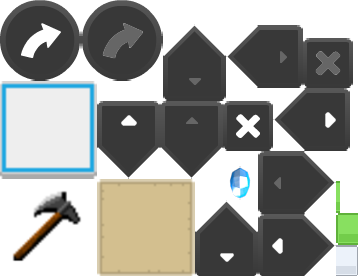
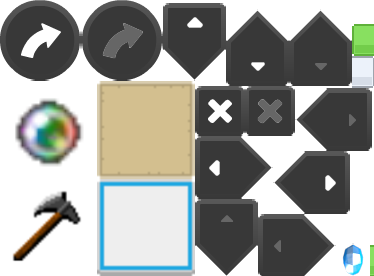
- fixed a bug with debug rendering (a useless Matrix4 was used instead of the gameCamera.combined matrix) - added new chromaorb item which illuminates the entire garden a little bit

diff --git a/core/src/com/quillraven/game/gamestate/GSGame.java b/core/src/com/quillraven/game/gamestate/GSGame.java
@@ -2,6 +2,7 @@ package com.quillraven.game.gamestate;
 
 import box2dLight.Light;
 import box2dLight.RayHandler;
+import com.badlogic.gdx.graphics.Color;
 import com.badlogic.gdx.graphics.OrthographicCamera;
 import com.badlogic.gdx.math.Vector2;
 import com.badlogic.gdx.physics.box2d.Box2D;
@@ -21,12 +22,12 @@ import com.quillraven.game.ecs.system.PlayerMovementSystem;
 import com.quillraven.game.map.MapManager;
 import com.quillraven.game.ui.GameUI;
 
-import static com.quillraven.game.MysticGarden.BIT_GROUND;
-import static com.quillraven.game.MysticGarden.BIT_PLAYER;
+import static com.quillraven.game.MysticGarden.*;
 
 public class GSGame extends GameState<GameUI> implements PlayerContactSystem.PlayerContactListener {
     private final ECSEngine ecsEngine;
     private final RayHandler rayHandler;
+    private final Color ambientLightColor;
     private final World world;
     private float elapsedTime;
 
@@ -46,9 +47,10 @@ public class GSGame extends GameState<GameUI> implements PlayerContactSystem.Pla
         world = new World(new Vector2(0, 0), true);
         world.setContactListener(WorldContactManager.INSTANCE);
         rayHandler = new RayHandler(world);
-        rayHandler.setAmbientLight(0, 0, 0, 0.05f);
-        // player light should only collide with ground objects. Water for example should not throw shadows
-        Light.setGlobalContactFilter(BIT_PLAYER, (short) 1, BIT_GROUND);
+        ambientLightColor = new Color(0, 0, 0, 0.05f);
+        rayHandler.setAmbientLight(ambientLightColor);
+        // player light should not collide with water because water should not throw shadows
+        Light.setGlobalContactFilter(BIT_PLAYER, (short) 1, (short) (BIT_GROUND | BIT_GAME_OBJECT));
 
         // entity component system
         this.ecsEngine = new ECSEngine(world, rayHandler, new OrthographicCamera());
@@ -144,14 +146,19 @@ public class GSGame extends GameState<GameUI> implements PlayerContactSystem.Pla
 
     @Override
     public void itemContact(final GameObjectComponent.GameObjectType type) {
-        switch (type) {
-            case AXE:
-                gameStateHUD.setAxe(true);
-                gameStateHUD.showInfoMessage(hud.getLocalizedString("axeInfo"), 7.0f);
-                break;
-            default:
-                // nothing to do
-                break;
+        if (type == GameObjectComponent.GameObjectType.AXE) {
+            gameStateHUD.setAxe(true);
+            gameStateHUD.showInfoMessage(hud.getLocalizedString("axeInfo"), 7.0f);
+        }
+    }
+
+    @Override
+    public void chromaOrbContact(final int chromaOrbsFound) {
+        ambientLightColor.a += 0.05f;
+        rayHandler.setAmbientLight(ambientLightColor);
+        gameStateHUD.setChromaOrb(chromaOrbsFound);
+        if (chromaOrbsFound == 1) {
+            gameStateHUD.showInfoMessage(hud.getLocalizedString("chromaOrbInfo"), 7.0f);
         }
     }
 }

diff --git a/core/src/com/quillraven/game/ecs/system/PlayerContactSystem.java b/core/src/com/quillraven/game/ecs/system/PlayerContactSystem.java
@@ -6,10 +6,10 @@ import com.badlogic.ashley.core.EntitySystem;
 import com.badlogic.gdx.utils.Array;
 import com.quillraven.game.WorldContactManager;
 import com.quillraven.game.core.AudioManager;
+import com.quillraven.game.core.ecs.component.RemoveComponent;
 import com.quillraven.game.ecs.ECSEngine;
 import com.quillraven.game.ecs.component.GameObjectComponent;
 import com.quillraven.game.ecs.component.PlayerComponent;
-import com.quillraven.game.core.ecs.component.RemoveComponent;
 
 public class PlayerContactSystem extends EntitySystem implements WorldContactManager.WorldContactListener {
     private final ComponentMapper<PlayerComponent> playerCmpMapper;
@@ -35,9 +35,16 @@ public class PlayerContactSystem extends EntitySystem implements WorldContactMan
             case CRYSTAL:
                 AudioManager.INSTANCE.playAudio(AudioManager.AudioType.CRYSTAL_PICKUP);
                 gameObject.add(((ECSEngine) this.getEngine()).createComponent(RemoveComponent.class));
-                ++playerCmp.crystals;
                 for (final PlayerContactListener listener : listeners) {
-                    listener.crystalContact(playerCmp.crystals);
+                    listener.crystalContact(++playerCmp.crystals);
+                }
+                break;
+            case CHROMA_ORB:
+                AudioManager.INSTANCE.playAudio(AudioManager.AudioType.JINGLE);
+                playerCmp.sleepTime = 1.5f;
+                gameObject.add(((ECSEngine) this.getEngine()).createComponent(RemoveComponent.class));
+                for (final PlayerContactListener listener : listeners) {
+                    listener.chromaOrbContact(++playerCmp.chromaOrbs);
                 }
                 break;
             case AXE:
@@ -65,5 +72,7 @@ public class PlayerContactSystem extends EntitySystem implements WorldContactMan
         void crystalContact(final int crystalsFound);
 
         void itemContact(final GameObjectComponent.GameObjectType type);
+
+        void chromaOrbContact(final int chromaOrbsFound);
     }
 }

diff --git a/core/src/com/quillraven/game/ui/GameUI.java b/core/src/com/quillraven/game/ui/GameUI.java
@@ -1,9 +1,6 @@
 package com.quillraven.game.ui;
 
-import com.badlogic.gdx.scenes.scene2d.ui.Image;
-import com.badlogic.gdx.scenes.scene2d.ui.Stack;
-import com.badlogic.gdx.scenes.scene2d.ui.Table;
-import com.badlogic.gdx.scenes.scene2d.ui.TextButton;
+import com.badlogic.gdx.scenes.scene2d.ui.*;
 import com.badlogic.gdx.utils.Align;
 import com.badlogic.gdx.utils.Array;
 import com.quillraven.game.core.ui.HUD;
@@ -87,9 +84,10 @@ public class GameUI extends Table {
     }
 
     public void setCrystals(final int crystalsFound) {
-        crystalText.getLabel().getText().setLength(0);
-        crystalText.getLabel().getText().append(crystalsFound);
-        crystalText.getLabel().invalidateHierarchy();
+        final Label crystalLbl = crystalText.getLabel();
+        crystalLbl.getText().setLength(0);
+        crystalLbl.getText().append(crystalsFound);
+        crystalLbl.invalidateHierarchy();
     }
 
     public void setAxe(final boolean hasAxe) {
@@ -105,5 +103,21 @@ public class GameUI extends Table {
         infoBox.setVisible(true);
         infoBox.setColor(1, 1, 1, 0);
         infoBox.addAction(sequence(alpha(1, 1), delay(displayTime), alpha(0, 1)));
+    }
+
+    public void setChromaOrb(final int chromaOrbsFound) {
+        if (slots.get(3).getChildren().size == 1) {
+            slots.get(3).add(new Image(skin.getDrawable("chromaorb")));
+            final TextButton txt = new TextButton("", skin, "normal");
+            txt.getLabel().setAlignment(Align.bottomRight);
+            txt.getLabelCell().padRight(7).padBottom(10);
+            slots.get(3).add(txt);
+        }
+
+        final Label chromaOrbLbl = ((TextButton) slots.get(3).getChildren().get(2)).getLabel();
+        chromaOrbLbl.getText().setLength(0);
+        chromaOrbLbl.getText().append("[Highlight]");
+        chromaOrbLbl.getText().append(chromaOrbsFound);
+        chromaOrbLbl.invalidateHierarchy();
     }
 }

diff --git a/core/src/com/quillraven/game/ecs/system/GameRenderSystem.java b/core/src/com/quillraven/game/ecs/system/GameRenderSystem.java
@@ -14,7 +14,6 @@ import com.badlogic.gdx.maps.tiled.TiledMapTileLayer;
 import com.badlogic.gdx.maps.tiled.renderers.OrthogonalTiledMapRenderer;
 import com.badlogic.gdx.maps.tiled.tiles.AnimatedTiledMapTile;
 import com.badlogic.gdx.math.MathUtils;
-import com.badlogic.gdx.math.Matrix4;
 import com.badlogic.gdx.math.Vector2;
 import com.badlogic.gdx.math.Vector3;
 import com.badlogic.gdx.physics.box2d.Box2DDebugRenderer;
@@ -50,7 +49,6 @@ public class GameRenderSystem implements RenderSystem, MapManager.MapListener {
     private final RayHandler rayHandler;
     private final OrthographicCamera gameCamera;
     private final Vector3 renderOffsetVector;
-    private final Matrix4 b2dCombinedMatrix;
 
     private final ImmutableArray<Entity> gameObjectsForRender;
     private final ImmutableArray<Entity> charactersForRender;
@@ -70,7 +68,6 @@ public class GameRenderSystem implements RenderSystem, MapManager.MapListener {
         this.rayHandler = rayHandler;
         viewport = new FitViewport(9, 16, gameCamera);
         renderOffsetVector = new Vector3();
-        b2dCombinedMatrix = new Matrix4();
 
         MapManager.INSTANCE.addMapListener(this);
     }
@@ -101,7 +98,7 @@ public class GameRenderSystem implements RenderSystem, MapManager.MapListener {
         rayHandler.setCombinedMatrix(gameCamera);
         rayHandler.updateAndRender();
         if (DEBUG) {
-            b2dRenderer.render(world, b2dCombinedMatrix);
+            b2dRenderer.render(world, gameCamera.combined);
             Gdx.app.debug(TAG, "Last number of render calls: " + spriteBatch.renderCalls);
         }
     }

diff --git a/core/src/com/quillraven/game/map/Map.java b/core/src/com/quillraven/game/map/Map.java
@@ -68,6 +68,25 @@ public class Map {
             if (mapObj instanceof PolylineMapObject) {
                 final Polyline polyline = ((PolylineMapObject) mapObj).getPolyline();
                 collisionAreas.add(new CollisionArea(polyline.getX(), polyline.getY(), polyline.getVertices(), mapObj.getProperties().get("isWater", false, Boolean.class)));
+            } else if (mapObj instanceof RectangleMapObject) {
+                final Rectangle rect = ((RectangleMapObject) mapObj).getRectangle();
+                final float[] rectVertices = new float[10];
+                // left-bot
+                rectVertices[0] = 0;
+                rectVertices[1] = 0;
+                // left-top
+                rectVertices[2] = 0;
+                rectVertices[3] = rect.height;
+                // right-top
+                rectVertices[4] = rect.width;
+                rectVertices[5] = rect.height;
+                // right-bot
+                rectVertices[6] = rect.width;
+                rectVertices[7] = 0;
+                // left-bot
+                rectVertices[8] = 0;
+                rectVertices[9] = 0;
+                collisionAreas.add(new CollisionArea(rect.x, rect.y, rectVertices, mapObj.getProperties().get("isWater", false, Boolean.class)));
             } else {
                 Gdx.app.log(TAG, "Unsupported mapObject for collision layer: " + mapObj);
             }

diff --git a/core/src/com/quillraven/game/map/GameObject.java b/core/src/com/quillraven/game/map/GameObject.java
@@ -1,6 +1,5 @@
 package com.quillraven.game.map;
 
-import com.badlogic.gdx.Gdx;
 import com.badlogic.gdx.maps.MapProperties;
 import com.badlogic.gdx.maps.tiled.TiledMapTile;
 import com.badlogic.gdx.maps.tiled.objects.TiledMapTileMapObject;
@@ -11,8 +10,6 @@ import com.quillraven.game.ecs.component.GameObjectComponent;
 import static com.quillraven.game.MysticGarden.UNIT_SCALE;
 
 class GameObject {
-    private static final String TAG = GameObject.class.getSimpleName();
-
     private final TiledMapTileMapObject tileMapObjectRef;
     private final Rectangle boundaries;
     private final float animationInterval;
@@ -32,8 +29,7 @@ class GameObject {
         if (tileProps.containsKey("type")) {
             type = GameObjectComponent.GameObjectType.valueOf(tileProps.get("type", String.class));
         } else {
-            Gdx.app.error(TAG, "There is a gameobject in the map that has a tile without 'type' property. Location: " + boundaries.x + ", " + boundaries.y + ". TileID: " + tileMapObject.getTile().getId());
-            type = null;
+            type = GameObjectComponent.GameObjectType.NOT_DEFINED;
         }
 
         if (tileMapObject.getTile() instanceof AnimatedTiledMapTile) {

diff --git a/core/src/com/quillraven/game/MysticGarden.java b/core/src/com/quillraven/game/MysticGarden.java
@@ -9,10 +9,10 @@ import com.quillraven.game.core.gamestate.EGameState;
 
 
 /*TODO
- *) add "candle" game object to light up the ambient light; place one in the axe area
+ *) refactoring: move gametime logic and chromaorb logic into an ECS system
  *) add main menu screen to show credits and adjust sound volume
  *) add save/load to continue game where player left it
- *) add intro gamestate to explain story
+ *) add a "story info table" to GameUI that is shown until map is loaded + 3 seconds
  *) add victory gamestate to show beloved couple and score ;)
  *) finalize map and remaining game logic
  *) add particle effects to some areas of the map (f.e. torches and fire stones)

diff --git a/core/src/com/quillraven/game/ecs/component/PlayerComponent.java b/core/src/com/quillraven/game/ecs/component/PlayerComponent.java
@@ -10,6 +10,7 @@ public class PlayerComponent implements Pool.Poolable, Component {
     public int crystals;
     public boolean hasAxe;
     public float sleepTime;
+    public int chromaOrbs;
 
     @Override
     public void reset() {
@@ -18,5 +19,6 @@ public class PlayerComponent implements Pool.Poolable, Component {
         crystals = 0;
         hasAxe = false;
         sleepTime = 0;
+        chromaOrbs = 0;
     }
 }

diff --git a/core/src/com/quillraven/game/ecs/component/GameObjectComponent.java b/core/src/com/quillraven/game/ecs/component/GameObjectComponent.java
@@ -5,7 +5,7 @@ import com.badlogic.gdx.utils.Pool;
 
 public class GameObjectComponent implements Pool.Poolable, Component {
     public enum GameObjectType {
-        CRYSTAL, TREE, FIRESTONE, AXE, TORCH, TORCH_STATUE
+        NOT_DEFINED, CRYSTAL, TREE, AXE, CHROMA_ORB
     }
 
     public GameObjectType type;
